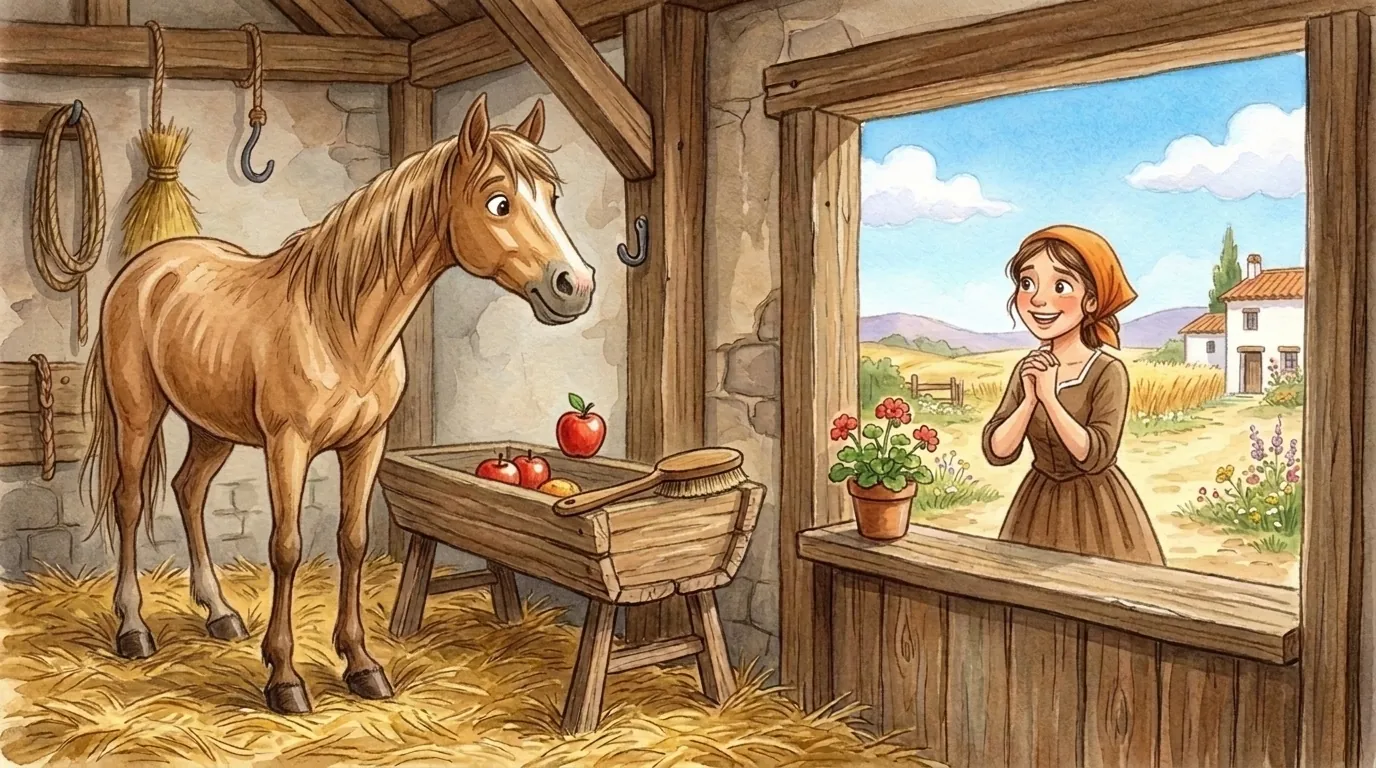
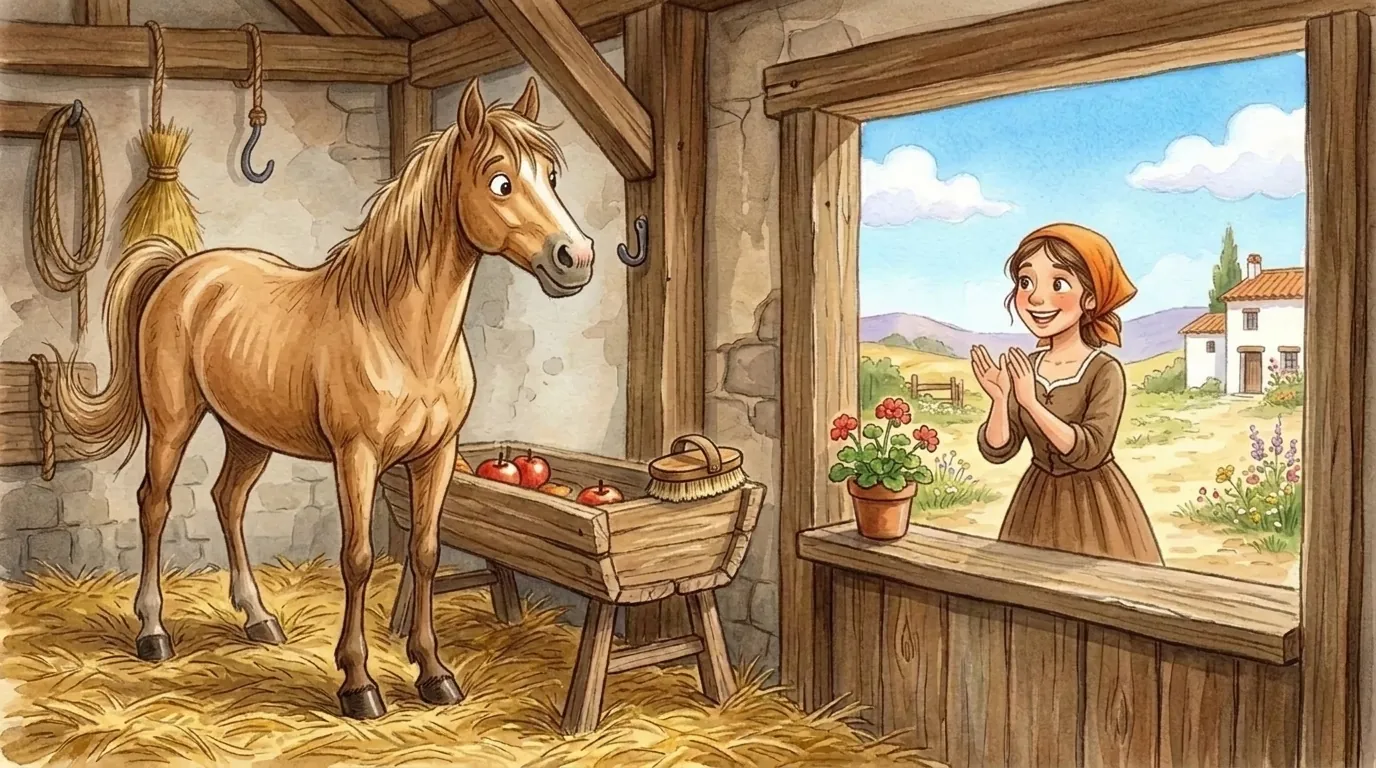
art(dom-quixote): entrega NB-5 enquadramento estavel estabulo e crina escovada

diff --git a/sw.js b/sw.js
@@ -6,7 +6,7 @@
    - Narração gravada (*.mp3 e as marcas *.json em audio/): rede primeiro, para frases regravadas chegarem ao tablet;
      cada arquivo fica num cache próprio (que sobrevive às novas versões) e toca offline depois.
    - Demais arquivos: cache primeiro (abre instantâneo no tablet). */
-const CACHE = 'classicos-vivos-624fd6374dd0';
+const CACHE = 'classicos-vivos-dcc4242b46c2';
 const CACHE_AUDIO = 'cv-narracao';
 const FILES = [
     "./assets/icones/icone-192.png",

diff --git a/docs/fila/ENTREGAS.md b/docs/fila/ENTREGAS.md
@@ -12,7 +12,8 @@ Uma linha por entrega (uma tarefa NB ou uma página das Partes 2–4), **acresce
 | 2026-10-23 21:28 | P-003 | NB-2 (ajuste) | `dom-quixote/imagens/camadas/p4-estalajadeiro-acenando.webp`, `dom-quixote/imagens/camadas/p4-estalajadeiro-sopa.webp`, `dom-quixote/imagens/camadas/p4-porquinhos.webp`, `dom-quixote/imagens/camadas/p4-pastor-parado.webp`, `dom-quixote/imagens/camadas/p4-pastor-tocando.webp`, `dom-quixote/imagens/camadas/p4-notas-musicais.webp` | `d479365` | Ajustes atendidos mantendo o mesmo canvas: avental 100% opaco, sombras escuras suaves sem mancha branca; pastor sem tapete de grama com sombra suave; notas sem halo branco com brilho dourado. Testado contra magenta. |
 | 2026-10-23 21:30 | P-004 | limpeza | removidos: `p4-real.webp`, `p4-real-flauta.webp`, `p4-real-sopa.webp`, `p7-real.webp`, `moinho-pas.svg` | `dfc0b2d` | Arquivos descontinuados após migração para camadas removidos com sucesso. CATALOGO.md atualizado; sw.js regenerado (versão fcc6031a9e15, 66 arquivos). |
 | 2026-10-24 01:25 | P-001 | NB-3 (conclusão) | `dom-quixote/imagens/p1-real-livro-dragoes.webp`, `dom-quixote/imagens/p1-real-livro-cavaleiros.webp` | `56622ef` | Tarefa NB-3 completa: livro dos dragões (verde, dragãozinho dourado sutil) e livro dos cavaleiros (vermelho, cavaleiros montados) gerados após renovação da cota. Sala, estante, poltrona e gatinho idênticos à base p1-real. Destrava integração A-3. |
-| 2026-10-24 01:27 | P-001 | NB-4 | `dom-quixote/imagens/p2-imag.webp`, `dom-quixote/imagens/p2-real-stage-1.webp` | neste commit | p2-imag: herói dourado alinhado na mesma escala, posição e pose exatas de stage-4, sem saltos ao alternar lentes. p2-real-stage-1: bacia removida, revelando o cabelo branco volumoso e traços idênticos a stage-0. |
+| 2026-10-24 01:27 | P-001 | NB-4 | `dom-quixote/imagens/p2-imag.webp`, `dom-quixote/imagens/p2-real-stage-1.webp` | `c167bb5` | p2-imag: herói dourado alinhado na mesma escala, posição e pose exatas de stage-4, sem saltos ao alternar lentes. p2-real-stage-1: bacia removida, revelando o cabelo branco volumoso e traços idênticos a stage-0. |
+| 2026-10-24 01:30 | P-001 | NB-5 | `dom-quixote/imagens/p3-real.webp`, `dom-quixote/imagens/p3-real-stage-3.webp` | neste commit | p3-real: enquadramento do estábulo perfeitamente alinhado a stage-1, com cocho vazio e Rocinante faminto no estado inicial. p3-real-stage-3: crina e rabo escovados e sedosos com brilho, escova de cavalo sobre o cocho e Aldonza aplaudindo encantada. |
 
 ## Status atual
-Tarefas NB-1 a NB-4 (P-001) concluídas. Prosseguindo imediatamente para NB-5 (Página 4: p3-real e p3-real-stage-3) e seguintes (NB-6 a NB-8 e P-002). P-005 segue adiado até a conclusão da arte dos 4 livros.
+Tarefas NB-1 a NB-5 (P-001) concluídas. Prosseguindo imediatamente para NB-6 (Página 7: p6-imag e camada p6-nuvem-ilha) e seguintes (NB-7 a NB-8 e P-002). P-005 segue adiado até a conclusão da arte dos 4 livros.

diff --git a/dom-quixote/biblioteca/CATALOGO.md b/dom-quixote/biblioteca/CATALOGO.md
@@ -21,7 +21,7 @@ Convenção: `pN` = índice da página (`?page=N`), sufixo `-real` (Lente da Rea
 | 0 · Capa | `p0-real`, `p0-imag` | |
 | 1 · O Fidalgo Leitor | `p1-real`, `p1-real-livro-castelos`, `p1-real-livro-dragoes`, `p1-real-livro-cavaleiros`, `p1-imag` | Livros dos Castelos, Dragões e Cavaleiros entregues (NB-3 completo) |
 | 2 · A Armadura do Bisavô | `p2-real-stage-0` … `p2-real-stage-4`, `p2-imag` | Etapas **cumulativas**: 1 peitoral → 2 +bacia → 3 +escudo → 4 +lança. `p2-imag` alinhado em escala/posição com `stage-4` e `p2-real-stage-1` com cabelo/rosto consistente com `stage-0` (NB-4 completo) |
-| 3 · Rocinante e Dulcineia | `p3-real`, `p3-real-stage-1` … `p3-real-stage-3`, `p3-imag` | Etapas: 1 maçã → 2 cenoura → 3 escova |
+| 3 · Rocinante e Dulcineia | `p3-real`, `p3-real-stage-1` … `p3-real-stage-3`, `p3-imag` | Etapas: cocho vazio (`p3-real`) → 1 maçã → 2 cenoura → 3 crina escovada e brilhante (`p3-real-stage-3`). Mesmo enquadramento estável entre todas as etapas (NB-5 completo) |
 | 4 · Pousada ou Castelo | `p4-real`, `p4-real-fundo`, `p4-real-flauta`, `p4-real-sopa`, `p4-imag` | Camadas em aquarela: `p4-pastor-parado`, `p4-pastor-tocando`, `p4-porquinhos`, `p4-notas-musicais`, `p4-estalajadeiro-acenando`, `p4-estalajadeiro-sopa` (NB-2) |
 | 5 · A Cerimônia | `p5-real`, `p5-imag` | |
 | 6 · Sancho Pança | `p6-real`, `p6-imag` | |
